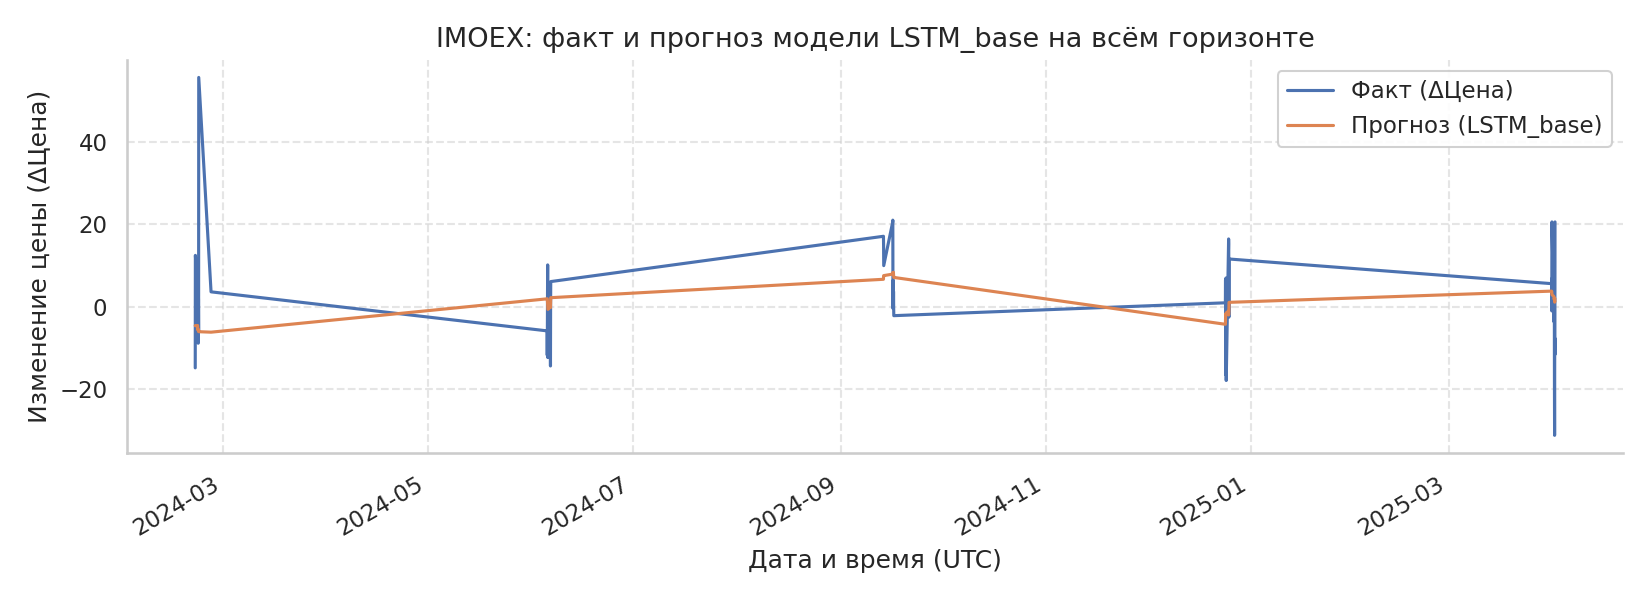
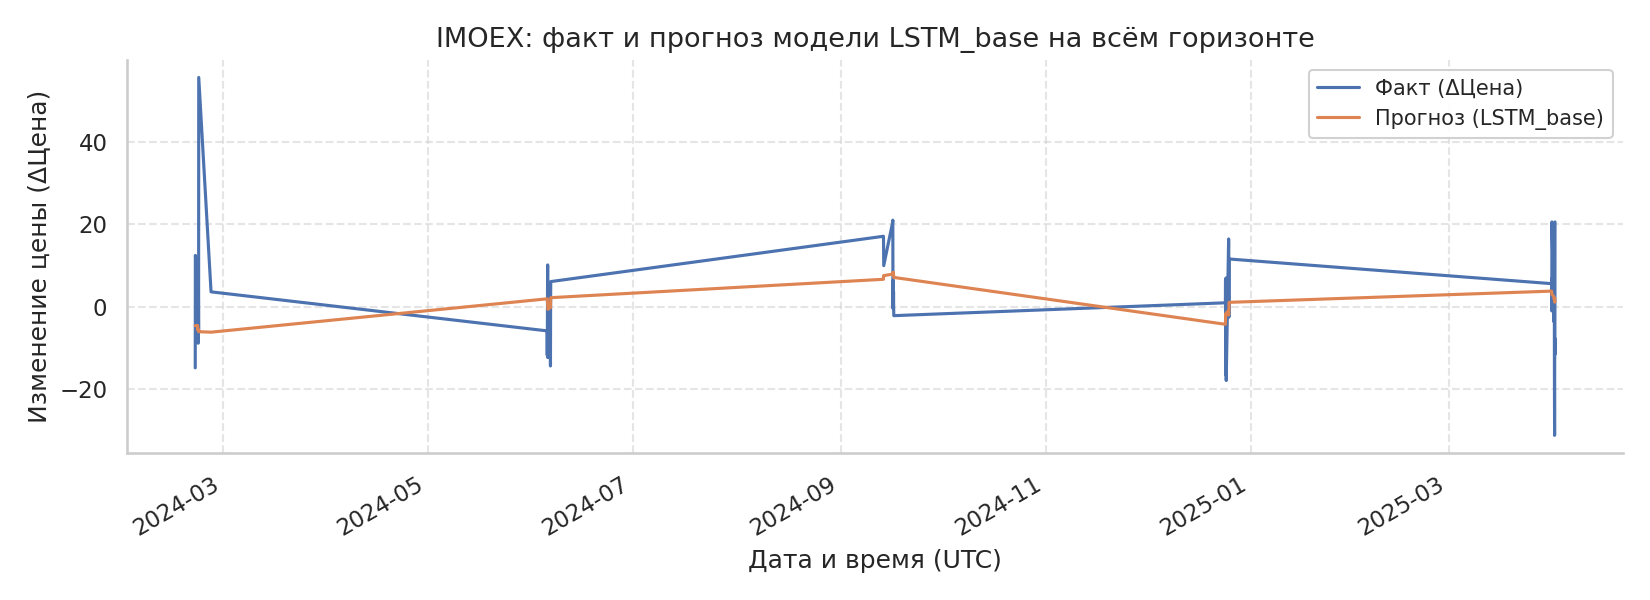
plots: smaller external legend, distinct palette (no black/blue), rounded lines; legacy all_models names; GOST legend tweak

Changed region(s): [[0.7727, 0.09, 0.9891, 0.27]]

diff --git a/tools/build_report.py b/tools/build_report.py
@@ -62,24 +62,66 @@ def _regen_all_models_from_preds(pred_dir: str, out_dir: str, paths: Paths, time
         hist = hist.iloc[-400:]
 
         fig, ax = plt.subplots(figsize=(16, 5))
-        ax.plot(hist.index, hist.values, label="Факт (до прогноза)", color="black", linewidth=2.4)
-        ax.plot(dt_fc, dfp["y_true"], label="Факт (прогнозный отрезок)", color="#1f77b4", linewidth=2.6)
+        # Reserve space on the right for an external legend
+        plt.subplots_adjust(right=0.78)
+        # Fact series with distinct, fixed colors
+        ax.plot(
+            hist.index,
+            hist.values,
+            label="Факт (до прогноза)",
+            color="black",
+            linewidth=2.4,
+            solid_capstyle="round",
+            solid_joinstyle="round",
+        )
+        fact_fc_color = "#1f77b4"  # matplotlib default blue
+        ax.plot(
+            dt_fc,
+            dfp["y_true"],
+            label="Факт (прогнозный отрезок)",
+            color=fact_fc_color,
+            linewidth=2.6,
+            solid_capstyle="round",
+            solid_joinstyle="round",
+        )
+        # Model overlays — ensure palette avoids black/blue to prevent confusion
         base_cols = {"Datetime", "y_true", "Close", "Close_prev", "Sigma"}
         cols = [c for c in dfp.columns if c not in base_cols]
-        palette = sns.color_palette("tab10", n_colors=max(len(cols), 3))
+        def _close(c1, c2, tol=0.03):
+            return all(abs(a - b) <= tol for a, b in zip(c1, c2))
+        reserved = [(0.0, 0.0, 0.0), (0.1216, 0.4667, 0.7059)]  # black, default blue
+        pal_raw = sns.color_palette("tab20", n_colors=max(len(cols) + 4, 12))
+        palette = [c for c in pal_raw if not any(_close(c, r) for r in reserved)]
+        if len(palette) < len(cols):
+            palette.extend(sns.color_palette("hls", n_colors=(len(cols) - len(palette) + 3)))
         for idx, c in enumerate(cols):
-            ax.plot(dt_fc, dfp[c], label=f"Прогноз {c}", linewidth=2.6, alpha=0.9, solid_capstyle="round", color=palette[idx % len(palette)])
-        ax.axvline(start_fc, color="#666666", linestyle="--", linewidth=1.4, label="Старт прогноза")
+            ax.plot(
+                dt_fc,
+                dfp[c],
+                label=f"Прогноз {c}",
+                linewidth=2.2,
+                alpha=0.95,
+                solid_capstyle="round",
+                solid_joinstyle="round",
+                color=palette[idx % len(palette)],
+            )
+        ax.axvline(start_fc, color="#666666", linestyle="--", linewidth=1.3, label="Старт прогноза")
         ax.set_title(f"{tk}: факт и прогнозы всех моделей (фолд {pf.split('_f')[1].split('.')[0]})")
         ax.set_xlabel("Дата и время (UTC)")
         ax.set_ylabel("ΔЦена")
         ax.xaxis.set_major_locator(matplotlib.dates.AutoDateLocator())
         ax.xaxis.set_major_formatter(matplotlib.dates.ConciseDateFormatter(ax.xaxis.get_major_locator()))
-        ax.legend()
+        # Smaller legend outside the axes to avoid overlap
+        lg = ax.legend(fontsize=9, loc="upper left", bbox_to_anchor=(1.01, 1), borderaxespad=0.0, frameon=True)
         fig.autofmt_xdate()
         fig.tight_layout()
+        # Save under current name and a compatibility name used earlier
         out_path = os.path.join(out_dir, f"{pf.replace('.csv','')}_all_models.png")
-        fig.savefig(out_path)
+        compat_name = f"{tk}_{pf.replace('.csv','')}_all_models.png"
+        out_path_compat = os.path.join(out_dir, compat_name)
+        fig.savefig(out_path, bbox_inches="tight")
+        # also write the legacy/duplicate name for users expecting it
+        fig.savefig(out_path_compat, bbox_inches="tight")
         plt.close(fig)
 
 

diff --git a/vkr_fast/plotting.py b/vkr_fast/plotting.py
@@ -16,7 +16,7 @@ def apply_gost_style():
             "grid.alpha": 0.5,
             "legend.frameon": True,
             "legend.framealpha": 0.9,
-            "legend.fontsize": 11,
+            "legend.fontsize": 10,
             "axes.spines.top": False,
             "axes.spines.right": False,
         }

diff --git a/REPORT.md b/REPORT.md
@@ -169,9 +169,9 @@ mean_structural_shift_pct  0.836874
 
 ![IMOEX_IMOEX_f3_all_models.png](reports/IMOEX_IMOEX_f3_all_models.png)
 
-![IMOEX_f0_actual_vs_CatBoost.png](reports/IMOEX_f0_actual_vs_CatBoost.png)
+![IMOEX_IMOEX_f4_all_models.png](reports/IMOEX_IMOEX_f4_all_models.png)
 
-![IMOEX_f0_actual_vs_Hybrid.png](reports/IMOEX_f0_actual_vs_Hybrid.png)
+![IMOEX_f0_actual_vs_CatBoost.png](reports/IMOEX_f0_actual_vs_CatBoost.png)
 
 ## Факт и прогноз на всём горизонте (все фолды)
 
